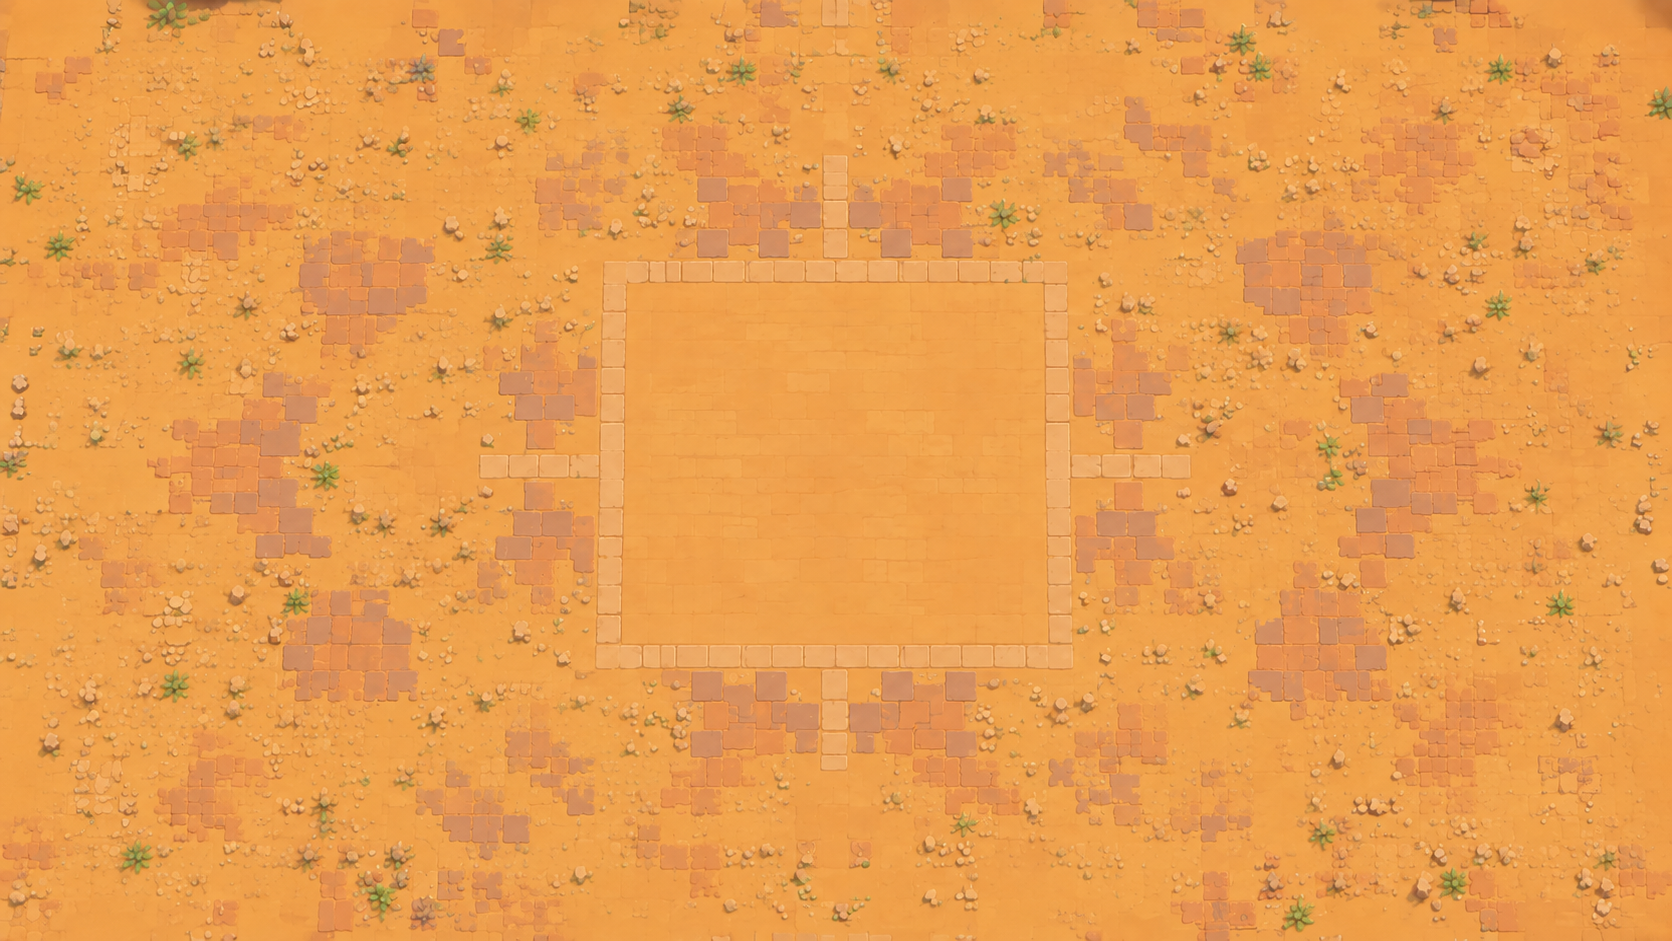
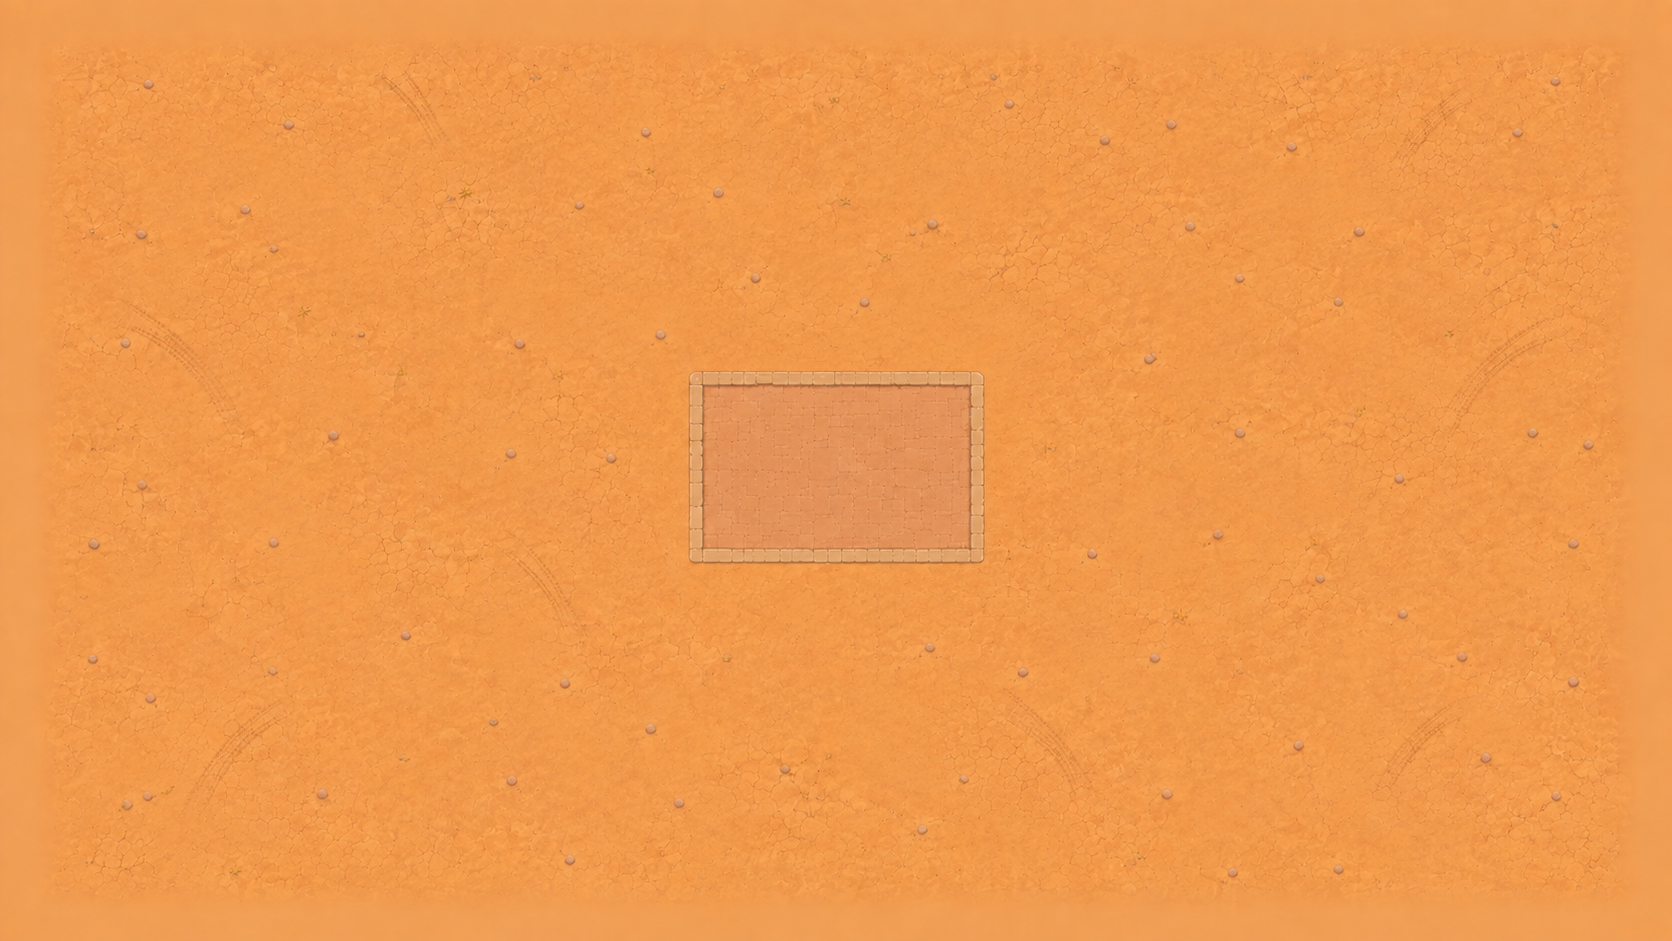
RB: new AI-generated arena background + distinct uniform colours per player
- arena-bg.png v2 (user's generated art): softer desert ground, crisp
  central brick courtyard; CENTER_SQUARE re-measured to the new art
  (41,39 18x22) and the out-of-bounds fill resampled to #f19e54
- Numeric stage tints now COLORIZE (sepia -> saturate -> hue-rotate):
  the soldier's grey camo barely responded to a plain hue-rotate, so
  players 2+ now wear clearly different uniform colours; player 1 keeps
  the original camo. Letter Race's boolean teal tint is untouched.

diff --git a/components/letterRaceStage.ts b/components/letterRaceStage.ts
@@ -289,13 +289,18 @@ export class RunnerStage {
 
     // P2 gets a teal texture variant — the base color map redrawn through a
     // CSS hue-rotate on a canvas (same tint the sprites used).
-    const makeTintedTexture = (tex: any, hue = 165): any => {
+    const makeTintedTexture = (tex: any, hue = 165, colorize = false): any => {
       try {
         const img = tex.image as HTMLImageElement | HTMLCanvasElement | ImageBitmap;
         const c = document.createElement('canvas');
         c.width = (img as any).width; c.height = (img as any).height;
         const ctx = c.getContext('2d')!;
-        ctx.filter = `hue-rotate(${hue}deg)`;
+        // colorize: force a strong uniform recolour (sepia flattens to a warm
+        // base, then saturate + hue-rotate dye it) — desaturated textures like
+        // the RB soldier's grey camo barely respond to a plain hue-rotate
+        ctx.filter = colorize
+          ? `sepia(1) saturate(2.4) hue-rotate(${hue}deg)`
+          : `hue-rotate(${hue}deg)`;
         ctx.drawImage(img as any, 0, 0);
         // NOTE: not tex.clone() — clones share the underlying image Source,
         // so writing the tinted canvas would repaint Player 1 too.
@@ -388,6 +393,7 @@ export class RunnerStage {
       const tintVal = this.models[who].tint;
       if (tintVal) {
         const hue = typeof tintVal === 'number' ? tintVal : 165;
+        const colorize = typeof tintVal === 'number'; // numeric tints = full uniform recolour
         const seen = new Map<any, any>();
         root.traverse((o: any) => {
           if (o.isMesh && o.material) {
@@ -395,7 +401,7 @@ export class RunnerStage {
             const tinted = mats.map((m: any) => {
               if (!seen.has(m)) {
                 const nm = m.clone();
-                if (nm.map) nm.map = makeTintedTexture(nm.map, hue);
+                if (nm.map) nm.map = makeTintedTexture(nm.map, hue, colorize);
                 seen.set(m, nm);
               }
               return seen.get(m);

diff --git a/components/readingBattleConfig.ts b/components/readingBattleConfig.ts
@@ -68,7 +68,7 @@ export const BALANCE = {
 // ── Arena (100 × 100 units) ──────────────────────────────────────────────────
 // Flat background art is separate from collisions: swap BG_IMAGE for AI art
 // later, the walls below stay authoritative for gameplay.
-export const ARENA_BG_IMAGE: string | null = '/rb/arena-bg.png';
+export const ARENA_BG_IMAGE: string | null = '/rb/arena-bg.png?v=2';
 /** Brawl-Stars-style obstacles: one 3D block sprite (pre-rendered from the
  *  user's Tripo model via Blender, front-top ortho) tiled onto WALL_TILES.
  *  Collision rects and the per-tile draw list both DERIVE from the map below,
@@ -140,7 +140,7 @@ export const WALLS: WallRect[] = (() => {
 })();
 
 /** Centre showdown square — no walls inside; the anti-stall zone spares it. */
-export const CENTER_SQUARE = { x: 36, y: 27, w: 28, h: 43 }; // the brick square in the background art
+export const CENTER_SQUARE = { x: 41, y: 39, w: 18, h: 22 }; // the brick courtyard in the v2 background art (measured)
 
 /** Far-apart spawn points (assigned randomly). */
 export const SPAWNS: Array<{ x: number; y: number }> = [

diff --git a/components/ReadingBattleGame.tsx b/components/ReadingBattleGame.tsx
@@ -1064,7 +1064,7 @@ const ReadingBattleGame: React.FC<Props> = ({ roomId, onExit }) => {
     viewRef.current = { ox, oy, scale, dpr };
 
     // ground (out-of-bounds matches the desert art edge so corners don't show void)
-    ctx.fillStyle = bgImgRef.current ? '#d68c47' : '#0f2418';
+    ctx.fillStyle = bgImgRef.current ? '#f19e54' : '#0f2418'; // sampled from the v2 art's edges
     ctx.fillRect(0, 0, W, H);
     if (bgImgRef.current) {
       ctx.drawImage(bgImgRef.current, px(0), py(0), 100 * scale, 100 * scale);
